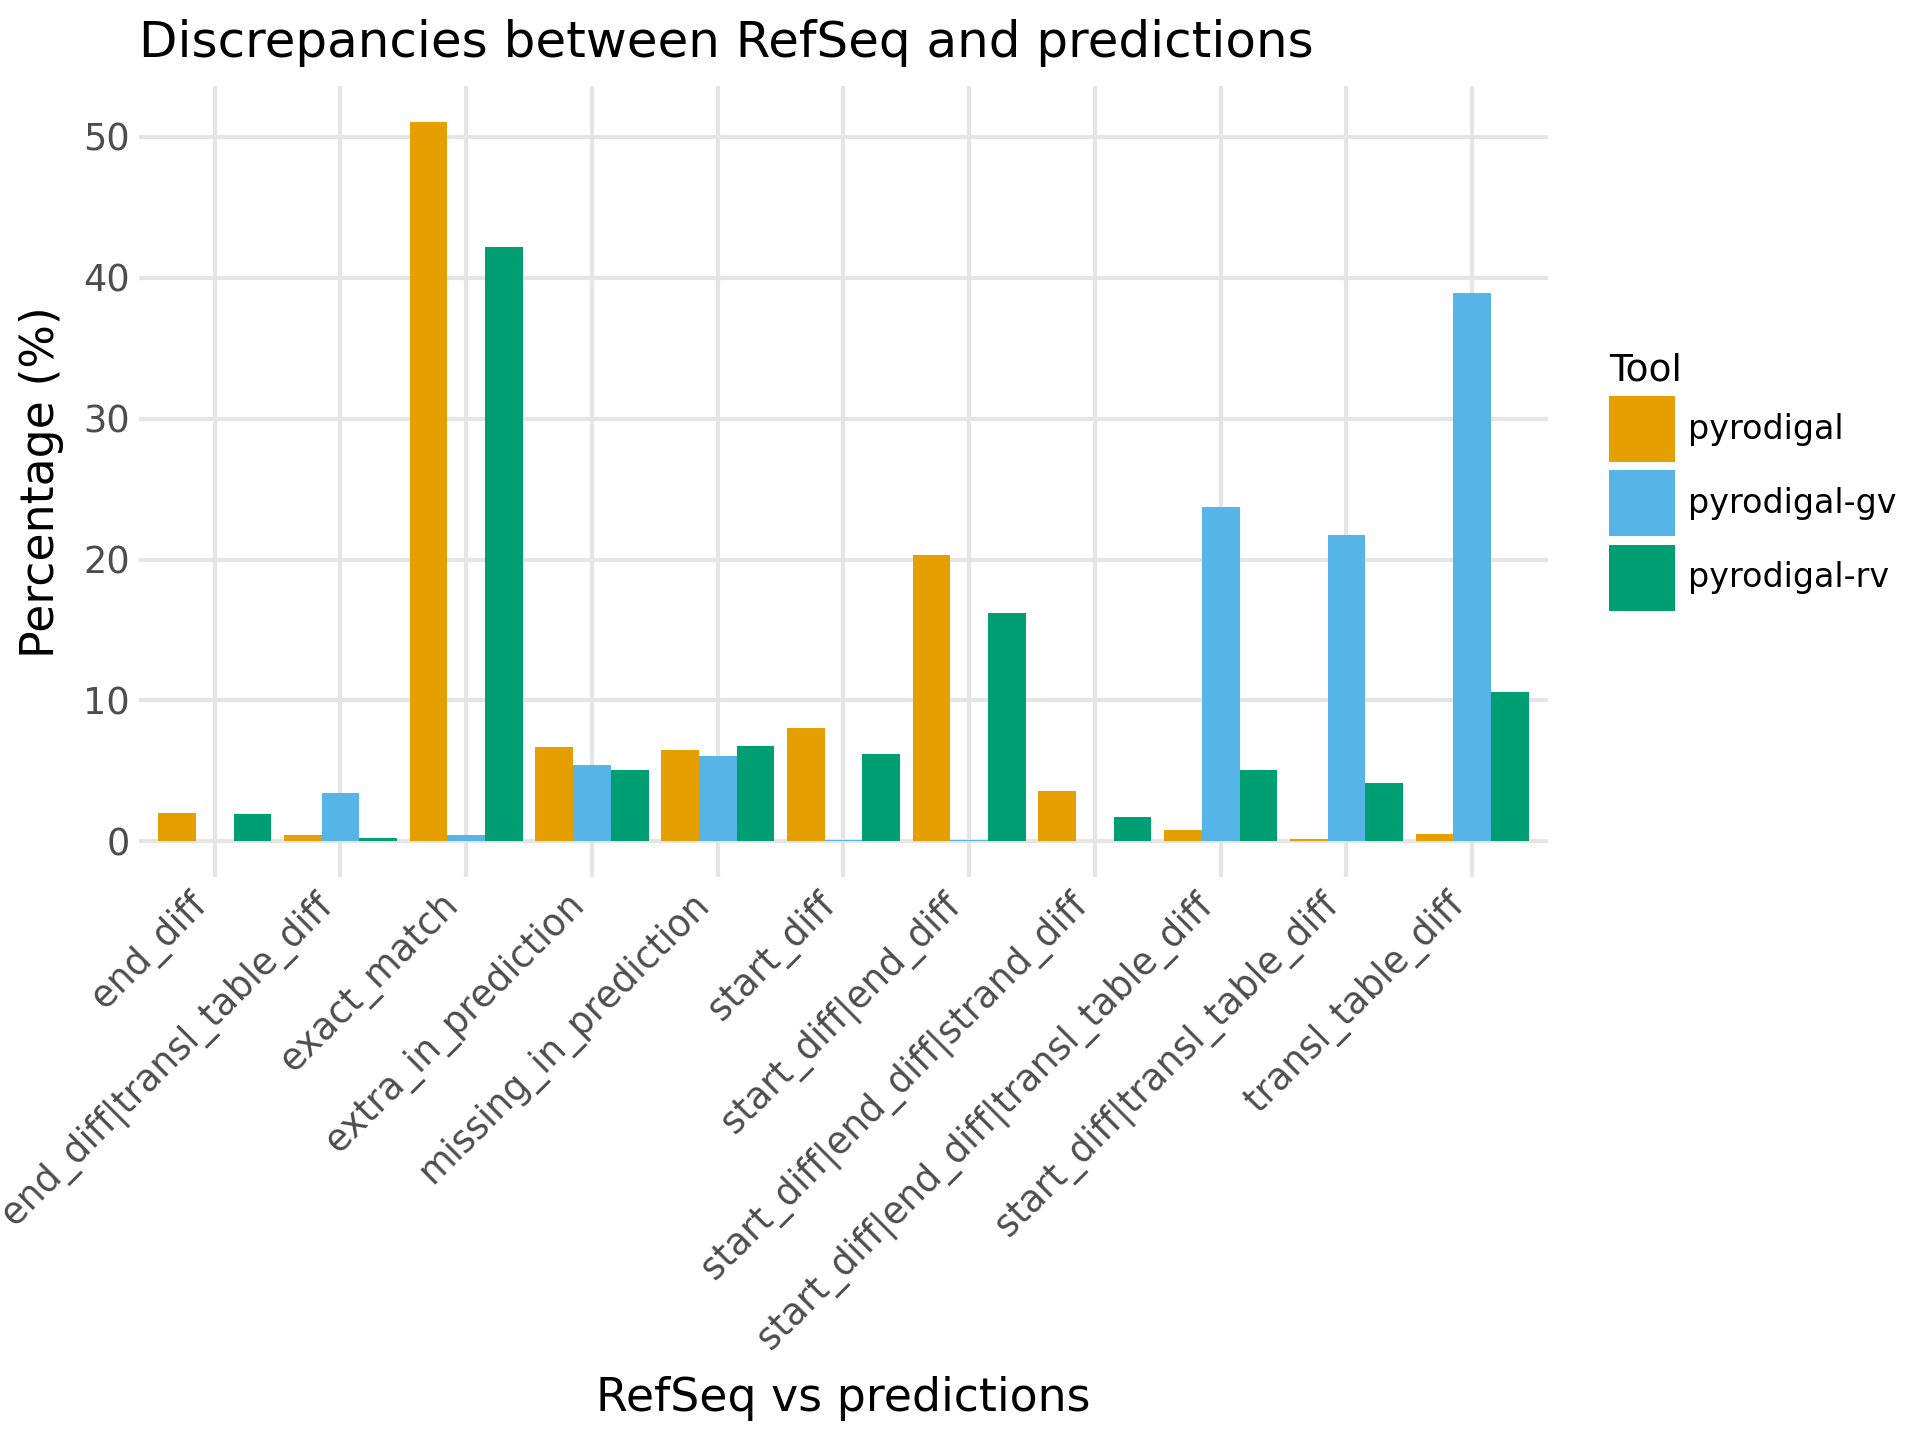
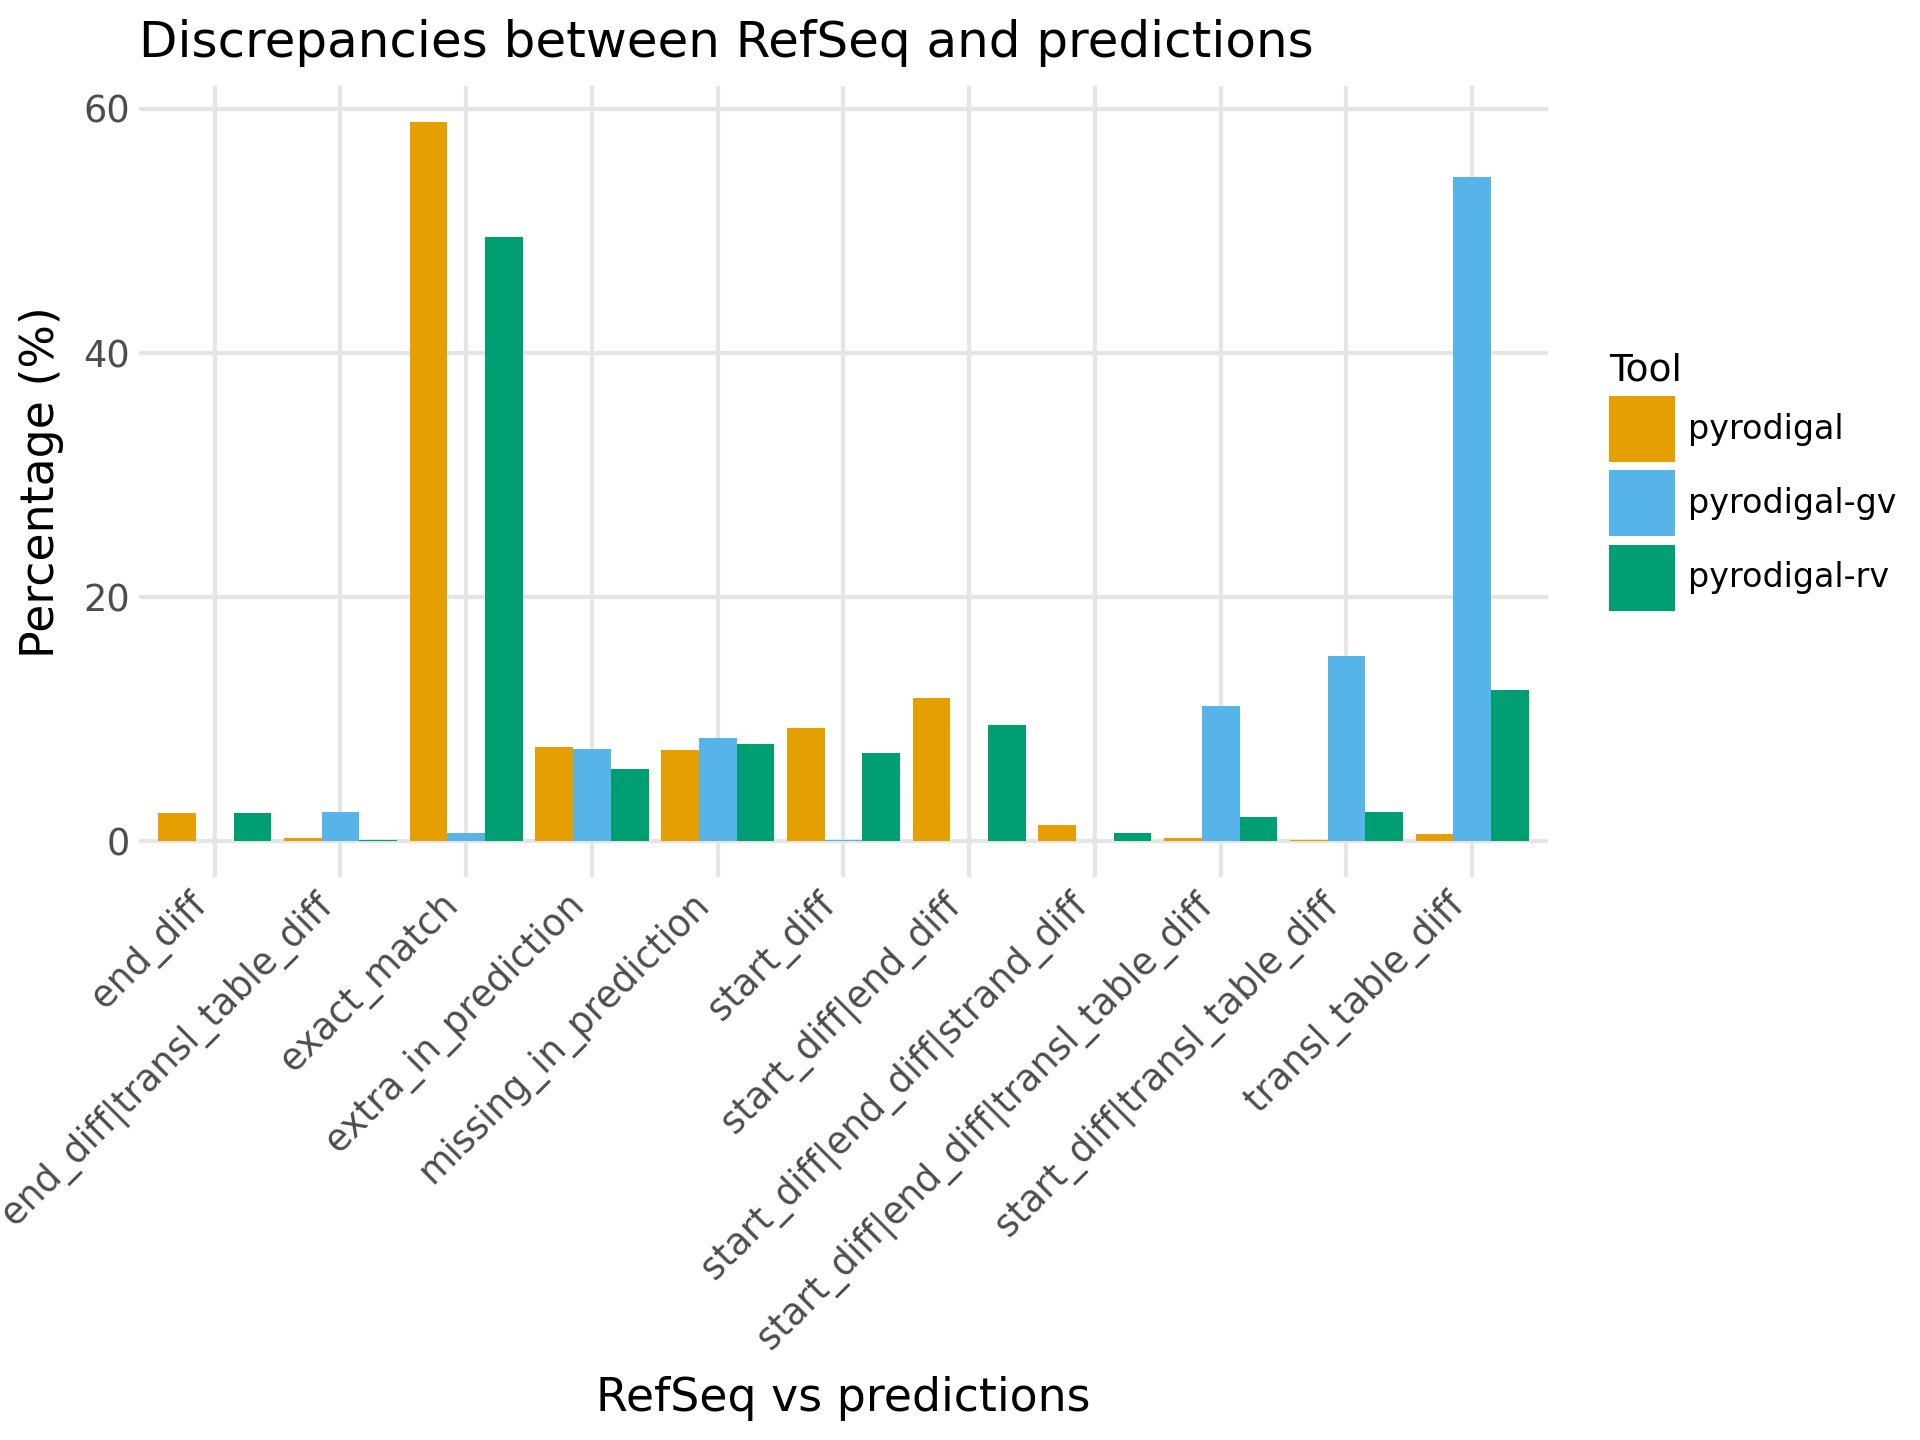
update benchmarks

diff --git a/README.md b/README.md
@@ -82,9 +82,12 @@ the results will be exactly the same as `pyrodigal`, so why would you ever do th
 To evaluate `pyrodigal-rv` ORF prediction in RNA viruses, all *Riboviria* sequences in RefSeq indicated as "complete" by the sequence submission authors and without N's in the sequence were used as a benchmark (*n=9,001*).
 
 All tools were run in closed mode (`-c`) and `pyrodigal` was forced to use genetic code 1 (`-g 1`) for the benchmarking as this is the most used genetic code by RNA viruses. 
-After comparison with the CDS annotations from RefSeq `pyrodigal` and `pyrodigal-rv` give 51% and 42% exact matches respectively, while both of them also predicted 35% CDSs with different start and/or stop sites compared to RefSeq. 
-For `pyrodigal-rv` another 10.5% was predicted to only have a different translation table.<br>
-As expected `pyrodigal-gv` had almost no exact matches because it contains no metagenomic models with genetic code 1, but it also predicts 50% CDSs with different start/stop sites which is considerably higher than `pyrodigal` and `pyrodigal-rv`.
+After comparison with the CDS annotations from RefSeq `pyrodigal` and `pyrodigal-rv` give 58.9% and 49.4% exact matches respectively, while both of them also predicted ~25% CDSs with different start and/or stop sites compared to RefSeq. 
+For `pyrodigal-rv` another 12.4% was predicted to only have a different translation table.
+
+As expected `pyrodigal-gv` had almost no exact matches because it contains no metagenomic models with genetic code 1, and it also predicts 28.8% CDSs
+
+`pyrodigal-rv` also performed best in context of extra and missing CDS predictions (considerably lower amount extra predictions and only 0.4% more missing predictions compared to `pyrodigal`).
 
 <p align="center">
   <img src="images/comparison.png" width="500" title="comparisons">
